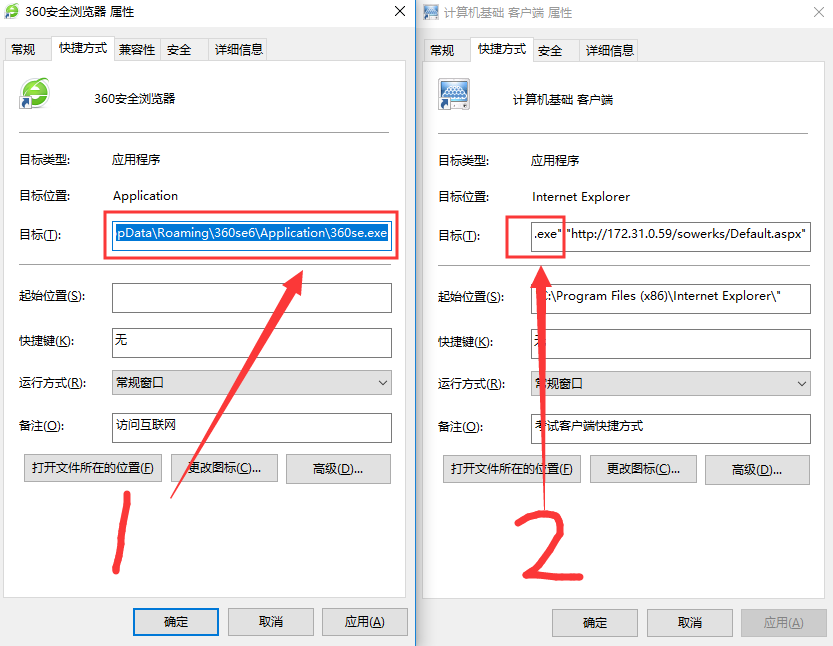
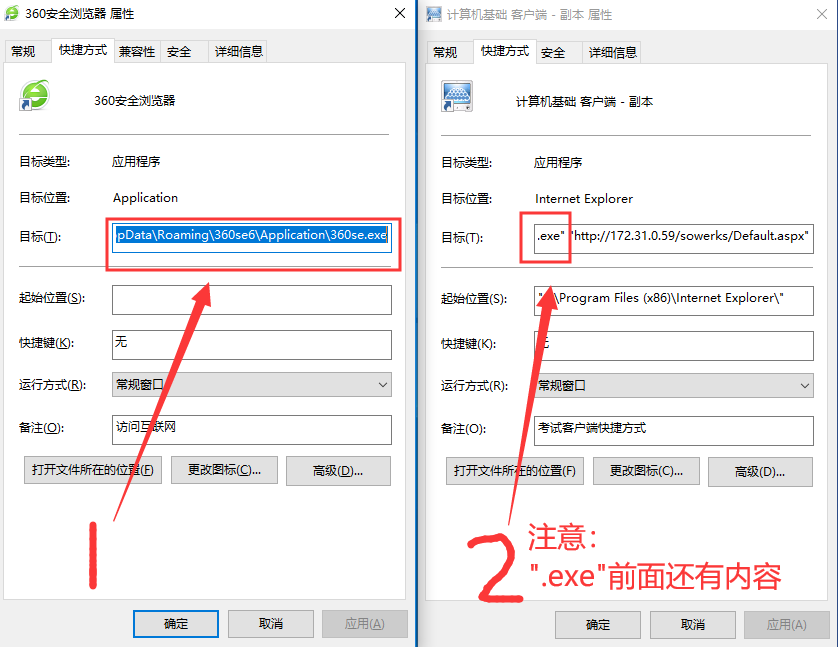
Site updated: 2019-12-04 02:51:24

diff --git a/2019/11/10/installtestsys/index.html b/2019/11/10/installtestsys/index.html
@@ -76,7 +76,7 @@
 <meta property="og:image" content="http:&#x2F;&#x2F;www.diannao120.top&#x2F;blog&#x2F;image&#x2F;2019&#x2F;11&#x2F;10&#x2F;001soarli001&#x2F;003.png">
 <meta property="og:image" content="http:&#x2F;&#x2F;www.diannao120.top&#x2F;blog&#x2F;image&#x2F;2019&#x2F;11&#x2F;10&#x2F;001soarli001&#x2F;004.png">
 <meta property="og:image" content="http:&#x2F;&#x2F;www.diannao120.top&#x2F;blog&#x2F;image&#x2F;2019&#x2F;11&#x2F;10&#x2F;001soarli001&#x2F;005.png">
-<meta property="og:updated_time" content="2019-12-03T18:43:21.198Z">
+<meta property="og:updated_time" content="2019-12-03T18:47:31.202Z">
 <meta name="twitter:card" content="summary">
 <meta name="twitter:image" content="http:&#x2F;&#x2F;www.diannao120.top&#x2F;blog&#x2F;image&#x2F;2019&#x2F;11&#x2F;10&#x2F;001soarli001&#x2F;tubiao.jpg">
 
@@ -267,7 +267,7 @@
                   <i class="fa fa-calendar-check-o"></i>
                 </span>
                 <span class="post-meta-item-text">更新于</span>
-                <time title="修改时间：2019-12-04 02:43:21" itemprop="dateModified" datetime="2019-12-04T02:43:21+08:00">2019-12-04</time>
+                <time title="修改时间：2019-12-04 02:47:31" itemprop="dateModified" datetime="2019-12-04T02:47:31+08:00">2019-12-04</time>
               </span>
             <span class="post-meta-item">
               <span class="post-meta-item-icon">
@@ -306,7 +306,7 @@
     <div class="post-body" itemprop="articleBody">
 
       
-        <center>作者：18级 李翱</center><h1 id="准备操作："><a href="#准备操作：" class="headerlink" title="准备操作："></a>准备操作：</h1><p>1.windows系统的电脑一台</p><p>2.能连上校园网的位置（CMCC-Henau、路由器、网线均可）</p><h1 id="考试系统地址："><a href="#考试系统地址：" class="headerlink" title="考试系统地址："></a>考试系统地址：</h1><p><a href="http://172.31.0.59/sowerks" target="_blank" rel="noopener">http://172.31.0.59/sowerks</a></p><p>（注意：从“1”到“s”一个字都别漏）</p><h1 id="注意："><a href="#注意：" class="headerlink" title="注意："></a>注意：</h1><p>office类型考试需要安装office 2010，vc/vb考试使用老师指定的客户端。</p><a id="more"></a>
+        <center>作者：18级 李翱</center><h1 id="准备操作："><a href="#准备操作：" class="headerlink" title="准备操作："></a>准备操作：</h1><p><strong>1.</strong>windows系统的电脑一台</p><p><strong>2.</strong>能连上校园网的位置（CMCC-Henau、路由器、网线均可）</p><h1 id="考试系统地址："><a href="#考试系统地址：" class="headerlink" title="考试系统地址："></a>考试系统地址：</h1><p><a href="http://172.31.0.59/sowerks" target="_blank" rel="noopener">http://172.31.0.59/sowerks</a></p><p>（注意：从“1”到“s”一个字都别漏）</p><h1 id="注意："><a href="#注意：" class="headerlink" title="注意："></a>注意：</h1><p>office类型考试需要安装office 2010，vc/vb考试使用老师指定的客户端。</p><a id="more"></a>
 
 
 
@@ -315,56 +315,29 @@
 
 <h1 id="安装方法："><a href="#安装方法：" class="headerlink" title="安装方法："></a>安装方法：</h1><h2 id="法一："><a href="#法一：" class="headerlink" title="法一："></a>法一：</h2><p>把电脑拿到“电脑120”（兰亭116），让值班同学协助安装。<br>（“电脑120”值班时间：除节假日每天晚上7~9点）</p>
 <h2 id="法二："><a href="#法二：" class="headerlink" title="法二："></a>法二：</h2><p>动手安装（两种方案，任选其一）：</p>
-<h1 id="方案一：使用360安全浏览器（其他国产双核浏览器类似）"><a href="#方案一：使用360安全浏览器（其他国产双核浏览器类似）" class="headerlink" title="方案一：使用360安全浏览器（其他国产双核浏览器类似）"></a>方案一：使用360安全浏览器（其他国产双核浏览器类似）</h1><ol>
-<li><p>打开360安全浏览器，在地址栏（尤其注意不要在搜索引擎搜索框）输入考试系统地址（开头已说，不赘述），按下回车键。</p>
-</li>
-<li><p>点击下载插件，下载完运行一次，点击网页上的“返回登录”。</p>
-</li>
-<li><p>此时桌面上会有一个名为“计算机基础 客户端”的图标，在桌面上直接把它复制粘贴一下，得到“计算机基础 客户端 - 副本”图标。</p>
-</li>
-</ol>
+<h1 id="方案一：使用360安全浏览器（其他国产双核浏览器类似）"><a href="#方案一：使用360安全浏览器（其他国产双核浏览器类似）" class="headerlink" title="方案一：使用360安全浏览器（其他国产双核浏览器类似）"></a>方案一：使用360安全浏览器（其他国产双核浏览器类似）</h1><p><strong>1.</strong>    打开360安全浏览器，在地址栏（尤其注意不要在搜索引擎搜索框）输入考试系统地址（开头已说，不赘述），按下回车键。</p>
+<p><strong>2.</strong>    点击下载插件，下载完运行一次，点击网页上的“返回登录”。</p>
+<p><strong>3.</strong>    此时桌面上会有一个名为“计算机基础 客户端”的图标，在桌面上直接把它复制粘贴一下，得到“计算机基础 客户端 - 副本”图标。</p>
 <p><img src="http://www.diannao120.top/blog/image/2019/11/10/001soarli001/tubiao.jpg" alt></p>
-<ol start="4">
-<li><p>关闭浏览器，分别右键打开桌面上360安全浏览器和“计算机基础客户端 - 副本”的属性。</p>
-</li>
-<li><p>全选复制1处地址，粘贴到2处的引号里面，应用 –&gt; 确定。</p>
-</li>
-</ol>
+<p><strong>4.</strong>    关闭浏览器，分别右键打开桌面上360安全浏览器和“计算机基础客户端 - 副本”的属性。</p>
+<p><strong>5.</strong> 全选复制1处地址，粘贴到2处的引号里面，应用 –&gt; 确定。</p>
 <p><img src="http://www.diannao120.top/blog/image/2019/11/10/001soarli001/001.png" alt></p>
-<ol start="6">
-<li>win 7直接跳过此步，win 10继续修改兼容性。</li>
-</ol>
+<p><strong>6.</strong>    win 7直接跳过此步，win 10继续修改兼容性。</p>
 <p><img src="http://www.diannao120.top/blog/image/2019/11/10/001soarli001/002.png" alt></p>
-<ol start="7">
-<li><p>按图示修改，应用 –&gt; 确定 ，应用 –&gt; 确定。<br><img src="http://www.diannao120.top/blog/image/2019/11/10/001soarli001/003.png" alt></p>
-</li>
-<li><p>直接打开考试客户端快捷方式就OK了。</p>
-</li>
-</ol>
-<p>【注意】</p>
-<p>1.“计算机基础客户端”不要删除，使用时打开“计算机基础 客户端 - 副本”。</p>
-<p>2.如果安装插件后桌面上没有出现“计算机基础 客户端”快捷方式，点击网页上的“返回登录”即可出现。</p>
-<p>3.只要安装环境配置完成，不用理会网页上任何形式的报错。</p>
-<h1 id="方案二：使用IE浏览器"><a href="#方案二：使用IE浏览器" class="headerlink" title="方案二：使用IE浏览器"></a>方案二：使用IE浏览器</h1><ol>
-<li>Win 7直接打开IE浏览器，Win 10点击左下角右边的搜索（语音助手）图标，输入Internet Explorer，打开。</li>
-</ol>
-<ol start="2">
-<li>如图所示，打开兼容性视图。</li>
-</ol>
+<p><strong>7.</strong>    按图示修改，应用 –&gt; 确定 ，应用 –&gt; 确定。<br><img src="http://www.diannao120.top/blog/image/2019/11/10/001soarli001/003.png" alt></p>
+<p><strong>8.</strong>    直接打开考试客户端快捷方式就OK了。</p>
+<p><strong>【注意】</strong></p>
+<p><strong>1.</strong>“计算机基础客户端”不要删除，使用时打开“计算机基础 客户端 - 副本”。</p>
+<p><strong>2.</strong>如果安装插件后桌面上没有出现“计算机基础 客户端”快捷方式，点击网页上的“返回登录”即可出现。</p>
+<p><strong>3.</strong>只要安装环境配置完成，不用理会网页上任何形式的报错。</p>
+<h1 id="方案二：使用IE浏览器"><a href="#方案二：使用IE浏览器" class="headerlink" title="方案二：使用IE浏览器"></a>方案二：使用IE浏览器</h1><p><strong>1.</strong>    Win 7直接打开IE浏览器，Win 10点击左下角右边的搜索（语音助手）图标，输入Internet Explorer，打开。</p>
+<p><strong>2.</strong>    如图所示，打开兼容性视图。</p>
 <p><img src="http://www.diannao120.top/blog/image/2019/11/10/001soarli001/004.png" alt></p>
-<ol start="3">
-<li>弹出的兼容性视图设置窗口中，添加“172.31.0.59”网址。</li>
-</ol>
+<p><strong>3.</strong>    弹出的兼容性视图设置窗口中，添加“172.31.0.59”网址。</p>
 <p><img src="http://www.diannao120.top/blog/image/2019/11/10/001soarli001/005.png" alt></p>
-<ol start="4">
-<li>在地址栏（尤其注意不要在搜索引擎搜索框）输入考试系统地址（开头已说，不赘述），按下回车键。</li>
-</ol>
-<ol start="5">
-<li>点击下载插件，下载完运行一次。</li>
-</ol>
-<ol start="6">
-<li>关闭IE，打开桌面上的考试客户端图标即可使用。</li>
-</ol>
+<p><strong>4.</strong>    在地址栏（尤其注意不要在搜索引擎搜索框）输入考试系统地址（开头已说，不赘述），按下回车键。</p>
+<p><strong>5.</strong>    点击下载插件，下载完运行一次。</p>
+<p><strong>6.</strong>    关闭IE，打开桌面上的考试客户端图标即可使用。</p>
 
     </div>
 

diff --git a/page/5/index.html b/page/5/index.html
@@ -853,7 +853,7 @@
                   <i class="fa fa-calendar-check-o"></i>
                 </span>
                 <span class="post-meta-item-text">更新于</span>
-                <time title="修改时间：2019-12-04 02:43:21" itemprop="dateModified" datetime="2019-12-04T02:43:21+08:00">2019-12-04</time>
+                <time title="修改时间：2019-12-04 02:47:31" itemprop="dateModified" datetime="2019-12-04T02:47:31+08:00">2019-12-04</time>
               </span>
             <span class="post-meta-item">
               <span class="post-meta-item-icon">
@@ -880,7 +880,7 @@
     <div class="post-body" itemprop="articleBody">
 
       
-          <center>作者：18级 李翱</center><h1 id="准备操作："><a href="#准备操作：" class="headerlink" title="准备操作："></a>准备操作：</h1><p>1.windows系统的电脑一台</p><p>2.能连上校园网的位置（CMCC-Henau、路由器、网线均可）</p><h1 id="考试系统地址："><a href="#考试系统地址：" class="headerlink" title="考试系统地址："></a>考试系统地址：</h1><p><a href="http://172.31.0.59/sowerks" target="_blank" rel="noopener">http://172.31.0.59/sowerks</a></p><p>（注意：从“1”到“s”一个字都别漏）</p><h1 id="注意："><a href="#注意：" class="headerlink" title="注意："></a>注意：</h1><p>office类型考试需要安装office 2010，vc/vb考试使用老师指定的客户端。</p>
+          <center>作者：18级 李翱</center><h1 id="准备操作："><a href="#准备操作：" class="headerlink" title="准备操作："></a>准备操作：</h1><p><strong>1.</strong>windows系统的电脑一台</p><p><strong>2.</strong>能连上校园网的位置（CMCC-Henau、路由器、网线均可）</p><h1 id="考试系统地址："><a href="#考试系统地址：" class="headerlink" title="考试系统地址："></a>考试系统地址：</h1><p><a href="http://172.31.0.59/sowerks" target="_blank" rel="noopener">http://172.31.0.59/sowerks</a></p><p>（注意：从“1”到“s”一个字都别漏）</p><h1 id="注意："><a href="#注意：" class="headerlink" title="注意："></a>注意：</h1><p>office类型考试需要安装office 2010，vc/vb考试使用老师指定的客户端。</p>
           <!--noindex-->
             <div class="post-button">
               <a class="btn" href="/blog/2019/11/10/installtestsys/#more" rel="contents">

diff --git a/2019/11/17/191117zyz01/index.html b/2019/11/17/191117zyz01/index.html
@@ -64,7 +64,7 @@
     }
 </style>
   <meta name="description" content="作者：18级 张怡哲准备阶段 一、启动U盘一个（建议4G以上），准备一个系统二、电脑重装前最好做好备份，系统重装可以只动C盘里的东西，所以桌面上的东西最好做好备份 一、启动盘的制作此操作会清空U盘数据，请提前做好备份1、    在电脑上下载一个启动盘制作工具（以大白菜为例）2、    将u盘插入电脑3、运行大白菜，选择自己的U盘，其他选项按照默认设置即可，点击开始制作">
-<meta name="keywords" content="硬件问题,开不了机,上不了网,显示异常,没有声音">
+<meta name="keywords" content="开不了机,硬件问题,上不了网,显示异常,没有声音">
 <meta property="og:type" content="article">
 <meta property="og:title" content="Windows重装系统的方法">
 <meta property="og:url" content="https:&#x2F;&#x2F;diannao120.github.io&#x2F;blog&#x2F;2019&#x2F;11&#x2F;17&#x2F;191117zyz01&#x2F;index.html">
@@ -355,8 +355,8 @@
 
       <footer class="post-footer">
           <div class="post-tags">
-              <a href="/blog/tags/%E7%A1%AC%E4%BB%B6%E9%97%AE%E9%A2%98/" rel="tag"><i class="fa fa-tag"></i> 硬件问题</a>
               <a href="/blog/tags/%E5%BC%80%E4%B8%8D%E4%BA%86%E6%9C%BA/" rel="tag"><i class="fa fa-tag"></i> 开不了机</a>
+              <a href="/blog/tags/%E7%A1%AC%E4%BB%B6%E9%97%AE%E9%A2%98/" rel="tag"><i class="fa fa-tag"></i> 硬件问题</a>
               <a href="/blog/tags/%E4%B8%8A%E4%B8%8D%E4%BA%86%E7%BD%91/" rel="tag"><i class="fa fa-tag"></i> 上不了网</a>
               <a href="/blog/tags/%E6%98%BE%E7%A4%BA%E5%BC%82%E5%B8%B8/" rel="tag"><i class="fa fa-tag"></i> 显示异常</a>
               <a href="/blog/tags/%E6%B2%A1%E6%9C%89%E5%A3%B0%E9%9F%B3/" rel="tag"><i class="fa fa-tag"></i> 没有声音</a>

diff --git a/2019/12/01/191201gbj01/index.html b/2019/12/01/191201gbj01/index.html
@@ -64,7 +64,7 @@
     }
 </style>
   <meta name="description" content="作者：19级 管冰洁审核：18级 王少磊一、电脑蓝屏方法一当电脑出现蓝屏时，最简单的方法就是使用“最后一次正确的配置”来初步修复一下电脑。方法二当电脑首次出现蓝屏时，应当在重启电脑时，按键盘快捷键“F8”进入系统启动菜单中，然后选择“最后一次正确的配置”来启动电脑，据此来修复一下电脑，看问题能否得到有效解决。">
-<meta name="keywords" content="硬件问题,开不了机,显示异常,没有声音">
+<meta name="keywords" content="开不了机,硬件问题,显示异常,没有声音">
 <meta property="og:type" content="article">
 <meta property="og:title" content="在电脑120“学习小组”学习总结（2019.12之前）">
 <meta property="og:url" content="https:&#x2F;&#x2F;diannao120.github.io&#x2F;blog&#x2F;2019&#x2F;12&#x2F;01&#x2F;191201gbj01&#x2F;index.html">
@@ -328,8 +328,8 @@
 
       <footer class="post-footer">
           <div class="post-tags">
-              <a href="/blog/tags/%E7%A1%AC%E4%BB%B6%E9%97%AE%E9%A2%98/" rel="tag"><i class="fa fa-tag"></i> 硬件问题</a>
               <a href="/blog/tags/%E5%BC%80%E4%B8%8D%E4%BA%86%E6%9C%BA/" rel="tag"><i class="fa fa-tag"></i> 开不了机</a>
+              <a href="/blog/tags/%E7%A1%AC%E4%BB%B6%E9%97%AE%E9%A2%98/" rel="tag"><i class="fa fa-tag"></i> 硬件问题</a>
               <a href="/blog/tags/%E6%98%BE%E7%A4%BA%E5%BC%82%E5%B8%B8/" rel="tag"><i class="fa fa-tag"></i> 显示异常</a>
               <a href="/blog/tags/%E6%B2%A1%E6%9C%89%E5%A3%B0%E9%9F%B3/" rel="tag"><i class="fa fa-tag"></i> 没有声音</a>
           </div>

diff --git a/2019/11/29/191130wst01/index.html b/2019/11/29/191130wst01/index.html
@@ -64,7 +64,7 @@
     }
 </style>
   <meta name="description" content="作者：19级 王树涛审核：18级 李嘉琦问题一：笔记本电脑的开机密码忘了怎么办？解决方法：1、百度下载“U大师”（老毛桃、大白菜也可以），把这个软件下载并安装在电脑上。2、插上U盘，选择一键制作U盘启动（制作前，把资料全部移走，U盘会被格式化），等待完成。3、把U盘插到要装系统的电脑上，开机之后一直按delete（F12、F2、F9，根据电脑不同略有不同）进入BOIS设置，在boot项（也有的写着">
-<meta name="keywords" content="硬件问题,开不了机,上不了网">
+<meta name="keywords" content="开不了机,硬件问题,上不了网">
 <meta property="og:type" content="article">
 <meta property="og:title" content="在电脑120“学习小组”学习总结（2019.12之前）">
 <meta property="og:url" content="https:&#x2F;&#x2F;diannao120.github.io&#x2F;blog&#x2F;2019&#x2F;11&#x2F;29&#x2F;191130wst01&#x2F;index.html">
@@ -369,8 +369,8 @@
 
       <footer class="post-footer">
           <div class="post-tags">
-              <a href="/blog/tags/%E7%A1%AC%E4%BB%B6%E9%97%AE%E9%A2%98/" rel="tag"><i class="fa fa-tag"></i> 硬件问题</a>
               <a href="/blog/tags/%E5%BC%80%E4%B8%8D%E4%BA%86%E6%9C%BA/" rel="tag"><i class="fa fa-tag"></i> 开不了机</a>
+              <a href="/blog/tags/%E7%A1%AC%E4%BB%B6%E9%97%AE%E9%A2%98/" rel="tag"><i class="fa fa-tag"></i> 硬件问题</a>
               <a href="/blog/tags/%E4%B8%8A%E4%B8%8D%E4%BA%86%E7%BD%91/" rel="tag"><i class="fa fa-tag"></i> 上不了网</a>
           </div>
 

diff --git a/2019/12/02/191202mjjl01/index.html b/2019/12/02/191202mjjl01/index.html
@@ -64,7 +64,7 @@
     }
 </style>
   <meta name="description" content="作者：19级 马佳乐审核：18级 王少磊一：问题：重装系统解决方法：1.首先插入大白菜的系统盘，然后重启电脑，在电脑黑屏时按F12（参照启动快捷键）进入BIOS界面，选择U盘，enter回车进入；2.在大白菜界面中选择分区图标，点击快速分区（若有文件需要，可部分分区），等待加载；3.点击PE装机工具，选择映像文件路径，选择待装系统，选中C盘，点击确定，等待系统安装；">
-<meta name="keywords" content="硬件问题,开不了机,显示异常">
+<meta name="keywords" content="开不了机,硬件问题,显示异常">
 <meta property="og:type" content="article">
 <meta property="og:title" content="在电脑120“学习小组”学习总结（2019.12之前）">
 <meta property="og:url" content="https:&#x2F;&#x2F;diannao120.github.io&#x2F;blog&#x2F;2019&#x2F;12&#x2F;02&#x2F;191202mjjl01&#x2F;index.html">
@@ -324,8 +324,8 @@
 
       <footer class="post-footer">
           <div class="post-tags">
-              <a href="/blog/tags/%E7%A1%AC%E4%BB%B6%E9%97%AE%E9%A2%98/" rel="tag"><i class="fa fa-tag"></i> 硬件问题</a>
               <a href="/blog/tags/%E5%BC%80%E4%B8%8D%E4%BA%86%E6%9C%BA/" rel="tag"><i class="fa fa-tag"></i> 开不了机</a>
+              <a href="/blog/tags/%E7%A1%AC%E4%BB%B6%E9%97%AE%E9%A2%98/" rel="tag"><i class="fa fa-tag"></i> 硬件问题</a>
               <a href="/blog/tags/%E6%98%BE%E7%A4%BA%E5%BC%82%E5%B8%B8/" rel="tag"><i class="fa fa-tag"></i> 显示异常</a>
           </div>
 

diff --git a/2019/11/14/191114lzc01/index.html b/2019/11/14/191114lzc01/index.html
@@ -64,7 +64,7 @@
     }
 </style>
   <meta name="description" content="作者：18级 李卓超1、在值班过程中给一台老式win8电脑重装系统中，电脑主人想要给电脑重装win8系统，但是装上系统后，电脑无限重启，进入死循环，但可以装win10系统，为了满足电脑主人的需要，我们只能给他装win8，一开始认为是U盘问题，换了2个U盘，但仍然不可以，在问过学长和百度之后，决定试试换分区格式或者做刻录盘，首先进BISO，（1）选择Secure Boot设置为Disabled（2）">
-<meta name="keywords" content="硬件问题,开不了机,上不了网">
+<meta name="keywords" content="开不了机,硬件问题,上不了网">
 <meta property="og:type" content="article">
 <meta property="og:title" content="电脑维修常见问题（2019.11月之前）">
 <meta property="og:url" content="https:&#x2F;&#x2F;diannao120.github.io&#x2F;blog&#x2F;2019&#x2F;11&#x2F;14&#x2F;191114lzc01&#x2F;index.html">
@@ -323,8 +323,8 @@
 
       <footer class="post-footer">
           <div class="post-tags">
-              <a href="/blog/tags/%E7%A1%AC%E4%BB%B6%E9%97%AE%E9%A2%98/" rel="tag"><i class="fa fa-tag"></i> 硬件问题</a>
               <a href="/blog/tags/%E5%BC%80%E4%B8%8D%E4%BA%86%E6%9C%BA/" rel="tag"><i class="fa fa-tag"></i> 开不了机</a>
+              <a href="/blog/tags/%E7%A1%AC%E4%BB%B6%E9%97%AE%E9%A2%98/" rel="tag"><i class="fa fa-tag"></i> 硬件问题</a>
               <a href="/blog/tags/%E4%B8%8A%E4%B8%8D%E4%BA%86%E7%BD%91/" rel="tag"><i class="fa fa-tag"></i> 上不了网</a>
           </div>
 

diff --git a/2019/11/29/191129zs01/index.html b/2019/11/29/191129zs01/index.html
@@ -64,7 +64,7 @@
     }
 </style>
   <meta name="description" content="作者：19级 周森审核：18级 李翱问题描述宏碁笔记本的UEFI BIOS中的安全启动(Secure Boot)是默认为是启动的，而且无法选择关闭，就像下图这样的情况，他的secure boot是灰色的(无法更改)，但是有的软件运行或者做系统等操作就需要关闭这个安全启动。解决方案这就需要我们切换到旁边的security页面">
-<meta name="keywords" content="硬件问题,开不了机,显示异常">
+<meta name="keywords" content="开不了机,硬件问题,显示异常">
 <meta property="og:type" content="article">
 <meta property="og:title" content="宏碁（acer）笔记本关闭安全启动(Secure Boot)">
 <meta property="og:url" content="https:&#x2F;&#x2F;diannao120.github.io&#x2F;blog&#x2F;2019&#x2F;11&#x2F;29&#x2F;191129zs01&#x2F;index.html">
@@ -318,8 +318,8 @@
 
       <footer class="post-footer">
           <div class="post-tags">
-              <a href="/blog/tags/%E7%A1%AC%E4%BB%B6%E9%97%AE%E9%A2%98/" rel="tag"><i class="fa fa-tag"></i> 硬件问题</a>
               <a href="/blog/tags/%E5%BC%80%E4%B8%8D%E4%BA%86%E6%9C%BA/" rel="tag"><i class="fa fa-tag"></i> 开不了机</a>
+              <a href="/blog/tags/%E7%A1%AC%E4%BB%B6%E9%97%AE%E9%A2%98/" rel="tag"><i class="fa fa-tag"></i> 硬件问题</a>
               <a href="/blog/tags/%E6%98%BE%E7%A4%BA%E5%BC%82%E5%B8%B8/" rel="tag"><i class="fa fa-tag"></i> 显示异常</a>
           </div>
 

diff --git a/2019/11/11/191111wsl01/index.html b/2019/11/11/191111wsl01/index.html
@@ -64,7 +64,7 @@
     }
 </style>
   <meta name="description" content="作者：18级 王少磊问题1：win10系统开机不是进入系统而是出现蓝屏界面，并提示错误代码0xc0000428。解答1：开机按shift+重启键进入高级启动界面，点击“疑难解答”，点击打开“高级选项”，在“高级选项”界面，点击“启动设置”，在“启动设置”界面里，找到并点击“重启”，然后点击“禁用驱动程序强制签名”即可。">
-<meta name="keywords" content="硬件问题,开不了机">
+<meta name="keywords" content="开不了机,硬件问题">
 <meta property="og:type" content="article">
 <meta property="og:title" content="常见电脑问题（2019.11月之前）">
 <meta property="og:url" content="https:&#x2F;&#x2F;diannao120.github.io&#x2F;blog&#x2F;2019&#x2F;11&#x2F;11&#x2F;191111wsl01&#x2F;index.html">
@@ -323,8 +323,8 @@
 
       <footer class="post-footer">
           <div class="post-tags">
-              <a href="/blog/tags/%E7%A1%AC%E4%BB%B6%E9%97%AE%E9%A2%98/" rel="tag"><i class="fa fa-tag"></i> 硬件问题</a>
               <a href="/blog/tags/%E5%BC%80%E4%B8%8D%E4%BA%86%E6%9C%BA/" rel="tag"><i class="fa fa-tag"></i> 开不了机</a>
+              <a href="/blog/tags/%E7%A1%AC%E4%BB%B6%E9%97%AE%E9%A2%98/" rel="tag"><i class="fa fa-tag"></i> 硬件问题</a>
           </div>
 
         

diff --git a/2019/11/18/191118djt01/index.html b/2019/11/18/191118djt01/index.html
@@ -64,7 +64,7 @@
     }
 </style>
   <meta name="description" content="作者：19级 董敬涛  Win10出现该情况的界面如下图所示：">
-<meta name="keywords" content="硬件问题,开不了机,显示异常,U盘问题">
+<meta name="keywords" content="开不了机,硬件问题,显示异常,U盘问题">
 <meta property="og:type" content="article">
 <meta property="og:title" content="关于电脑开机磁盘检查问题的解决方案">
 <meta property="og:url" content="https:&#x2F;&#x2F;diannao120.github.io&#x2F;blog&#x2F;2019&#x2F;11&#x2F;18&#x2F;191118djt01&#x2F;index.html">
@@ -352,8 +352,8 @@
 
       <footer class="post-footer">
           <div class="post-tags">
-              <a href="/blog/tags/%E7%A1%AC%E4%BB%B6%E9%97%AE%E9%A2%98/" rel="tag"><i class="fa fa-tag"></i> 硬件问题</a>
               <a href="/blog/tags/%E5%BC%80%E4%B8%8D%E4%BA%86%E6%9C%BA/" rel="tag"><i class="fa fa-tag"></i> 开不了机</a>
+              <a href="/blog/tags/%E7%A1%AC%E4%BB%B6%E9%97%AE%E9%A2%98/" rel="tag"><i class="fa fa-tag"></i> 硬件问题</a>
               <a href="/blog/tags/%E6%98%BE%E7%A4%BA%E5%BC%82%E5%B8%B8/" rel="tag"><i class="fa fa-tag"></i> 显示异常</a>
               <a href="/blog/tags/U%E7%9B%98%E9%97%AE%E9%A2%98/" rel="tag"><i class="fa fa-tag"></i> U盘问题</a>
           </div>

diff --git a/2019/11/15/191115djt01/index.html b/2019/11/15/191115djt01/index.html
@@ -64,7 +64,7 @@
     }
 </style>
   <meta name="description" content="作者：19级 董敬涛 审核：18级 李翱  问题描述：Thinkpad笔记本电脑开机显示启动菜单界面，并且无法跳出，无法关闭，如下图所示：">
-<meta name="keywords" content="硬件问题,开不了机,显示异常">
+<meta name="keywords" content="开不了机,硬件问题,显示异常">
 <meta property="og:type" content="article">
 <meta property="og:title" content="重装系统进不了安装界面(无法正常开机)的解决方案">
 <meta property="og:url" content="https:&#x2F;&#x2F;diannao120.github.io&#x2F;blog&#x2F;2019&#x2F;11&#x2F;15&#x2F;191115djt01&#x2F;index.html">
@@ -344,8 +344,8 @@
 
       <footer class="post-footer">
           <div class="post-tags">
-              <a href="/blog/tags/%E7%A1%AC%E4%BB%B6%E9%97%AE%E9%A2%98/" rel="tag"><i class="fa fa-tag"></i> 硬件问题</a>
               <a href="/blog/tags/%E5%BC%80%E4%B8%8D%E4%BA%86%E6%9C%BA/" rel="tag"><i class="fa fa-tag"></i> 开不了机</a>
+              <a href="/blog/tags/%E7%A1%AC%E4%BB%B6%E9%97%AE%E9%A2%98/" rel="tag"><i class="fa fa-tag"></i> 硬件问题</a>
               <a href="/blog/tags/%E6%98%BE%E7%A4%BA%E5%BC%82%E5%B8%B8/" rel="tag"><i class="fa fa-tag"></i> 显示异常</a>
           </div>
 

diff --git a/2019/12/01/191201hsj01/index.html b/2019/12/01/191201hsj01/index.html
@@ -64,7 +64,7 @@
     }
 </style>
   <meta name="description" content="作者：19级 郝帅杰 审核：18级 王少磊  1：网线制作白橙，橙；白绿，蓝；白蓝，绿；白棕，棕；">
-<meta name="keywords" content="硬件问题,开不了机,显示异常">
+<meta name="keywords" content="开不了机,硬件问题,显示异常">
 <meta property="og:type" content="article">
 <meta property="og:title" content="在电脑120“学习小组”学习总结（2019.12之前）">
 <meta property="og:url" content="https:&#x2F;&#x2F;diannao120.github.io&#x2F;blog&#x2F;2019&#x2F;12&#x2F;01&#x2F;191201hsj01&#x2F;index.html">
@@ -335,8 +335,8 @@
 
       <footer class="post-footer">
           <div class="post-tags">
-              <a href="/blog/tags/%E7%A1%AC%E4%BB%B6%E9%97%AE%E9%A2%98/" rel="tag"><i class="fa fa-tag"></i> 硬件问题</a>
               <a href="/blog/tags/%E5%BC%80%E4%B8%8D%E4%BA%86%E6%9C%BA/" rel="tag"><i class="fa fa-tag"></i> 开不了机</a>
+              <a href="/blog/tags/%E7%A1%AC%E4%BB%B6%E9%97%AE%E9%A2%98/" rel="tag"><i class="fa fa-tag"></i> 硬件问题</a>
               <a href="/blog/tags/%E6%98%BE%E7%A4%BA%E5%BC%82%E5%B8%B8/" rel="tag"><i class="fa fa-tag"></i> 显示异常</a>
           </div>
 
